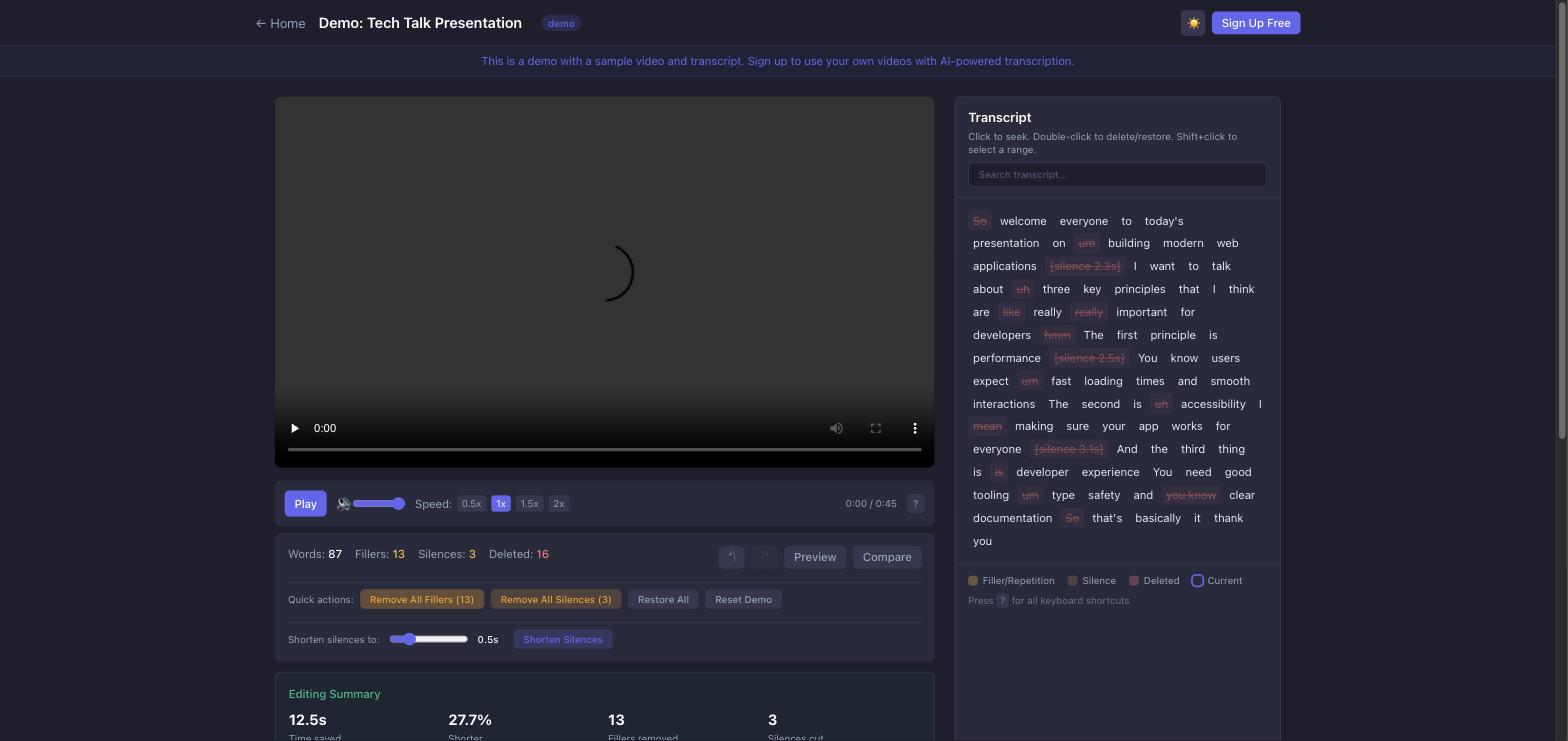
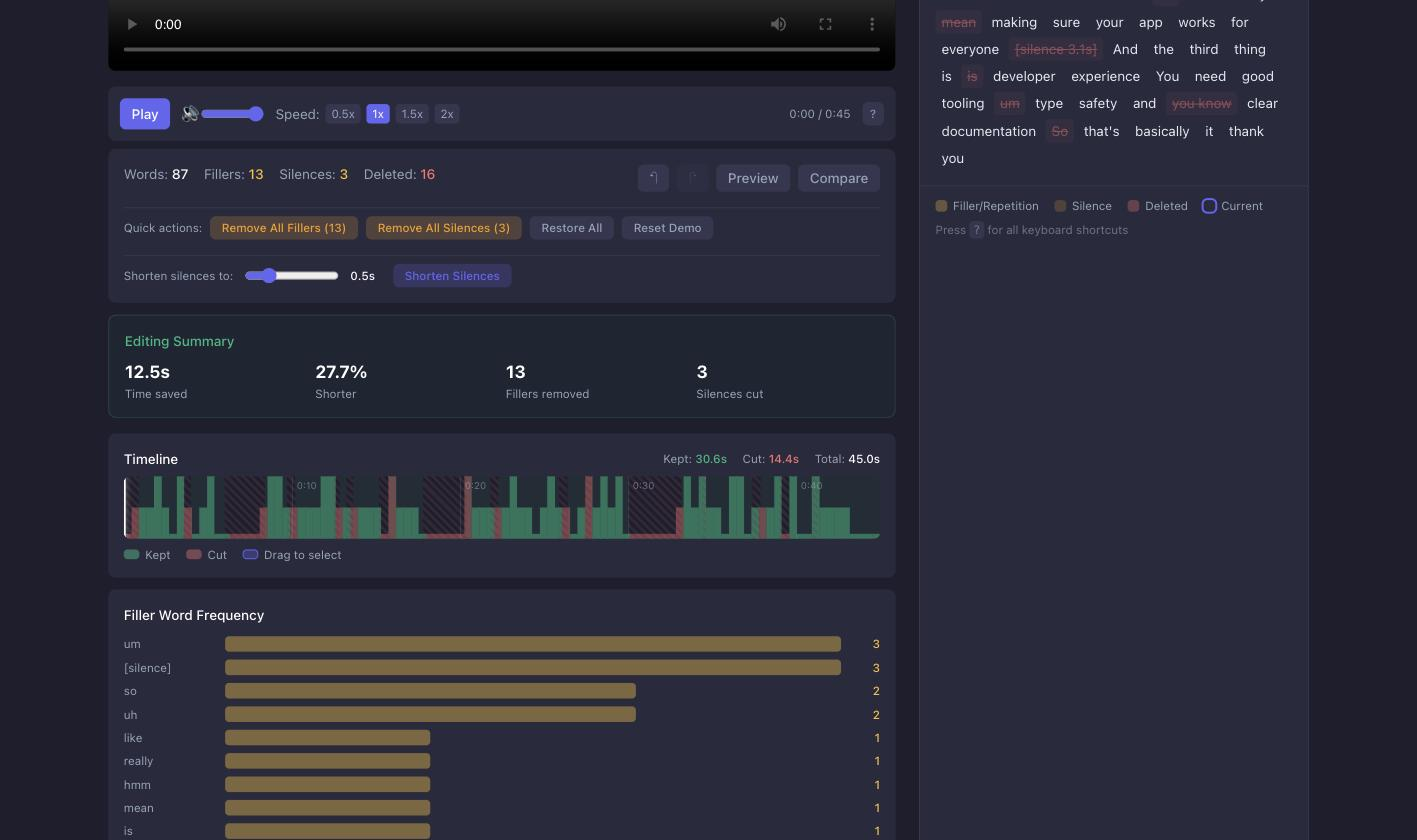
Reorder cards, hide two projects, re-shoot ClipCut
DC Tycoon moves to second. Folio and tmux-configs are commented out in both
REPOS lists.

Position in REPOS is now authoritative for ordering. Each repo's
.portfolio.json carries its own `order`, which was overriding the array and
made reordering here a no-op.

ClipCut's frame moves off the player: its demo source
(commondatastorage.googleapis.com/gtv-videos-bucket) now returns 403 for
anonymous callers, so the video cannot load at all on the live site.

diff --git a/src/portfolio.config.ts b/src/portfolio.config.ts
@@ -21,13 +21,17 @@ export const GITHUB_OWNER = "kevinreber";
  * Repos to feature on the portfolio, in default display order.
  * Add or remove entries here to update the site.
  */
+// NOTE: nothing imports this file today. `scripts/prebuild.mjs` keeps its own
+// REPOS array and is what actually generates `src/generated/projects.json`.
+// Kept in sync by hand so the two don't contradict each other.
 export const REPOS: RepoEntry[] = [
   { repo: "pixel-studio" },
+  { repo: "data-center-tycoon" },
   { repo: "clip-cut-ai" },
   { repo: "watch-party" },
-  { repo: "data-center-tycoon" },
   { repo: "bim-trace" },
   { repo: "aura" },
-  { repo: "folio" },
-  { repo: "tmux-configs" },
+  // Hidden for now — both are terminal-based with no usable screenshot.
+  // { repo: "folio" },
+  // { repo: "tmux-configs" },
 ];
